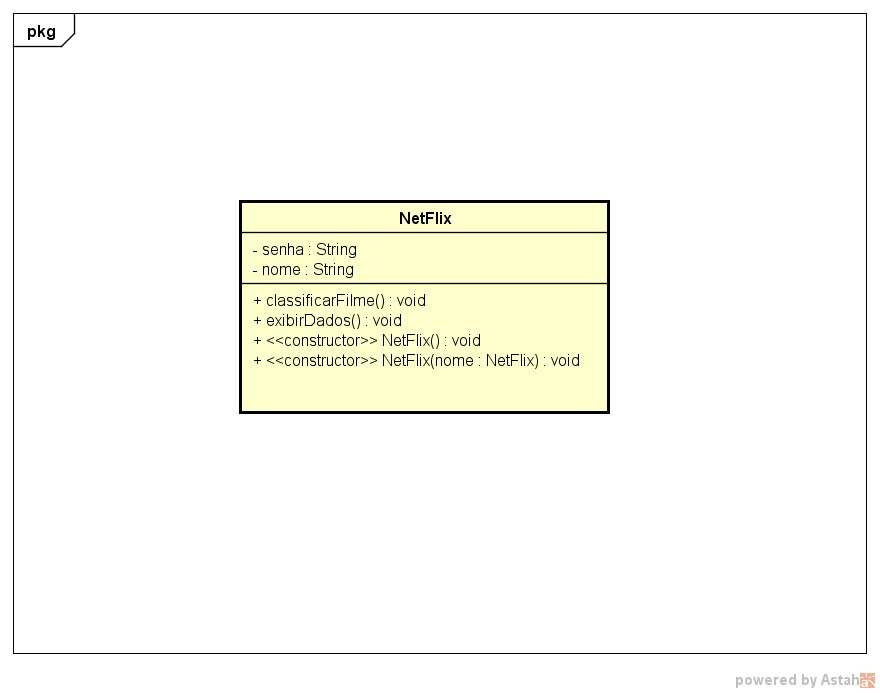
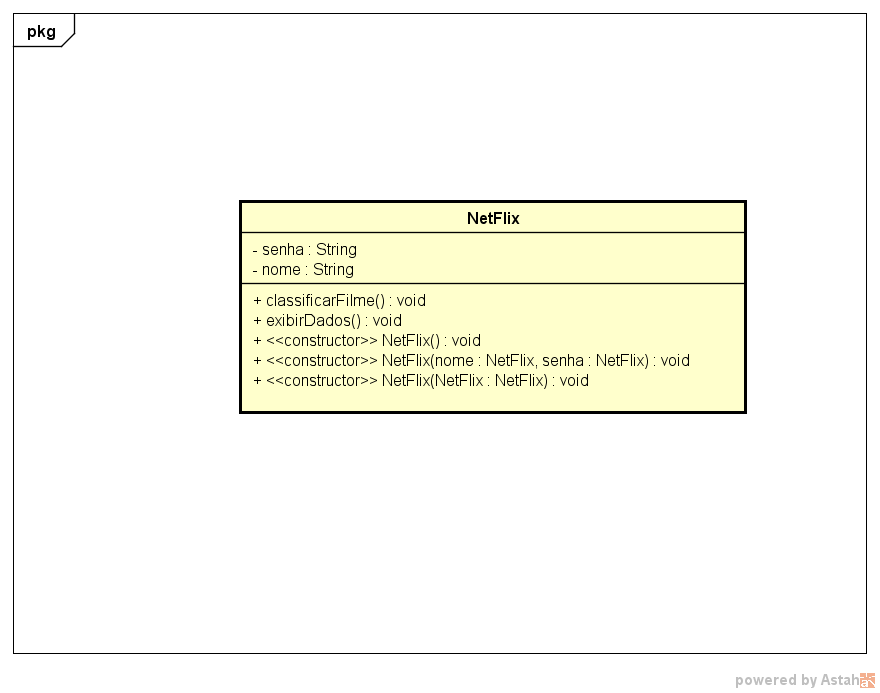
mudanças nas classes e no diagrama uml

diff --git a/NetFlix.cpp b/NetFlix.cpp
@@ -17,10 +17,18 @@ NetFlix::NetFlix()
 {
 }
 
-NetFlix::~NetFlix(int idade, const string &nome)
+NetFlix::~NetFlix(int senha, const string &nome)
 {
 this->nome=nome;
-this->idade=idade;
+this->senha=senha;
+}
+
+NetFlix::NetFlix( const Netflix &n)
+{
+    nome=n.nome;
+    senha=n.senha;
+    
+    
 }
 
 void NetFlix::classificaFilme()

diff --git a/NetFlix.h b/NetFlix.h
@@ -12,6 +12,7 @@ class NetFlix
 public:
     NetFlix();
     ~NetFlix(int, const string &);
+    NetFlix(const NetFlix &);
     
     void classificaFilme();
 	void exibirDados();
